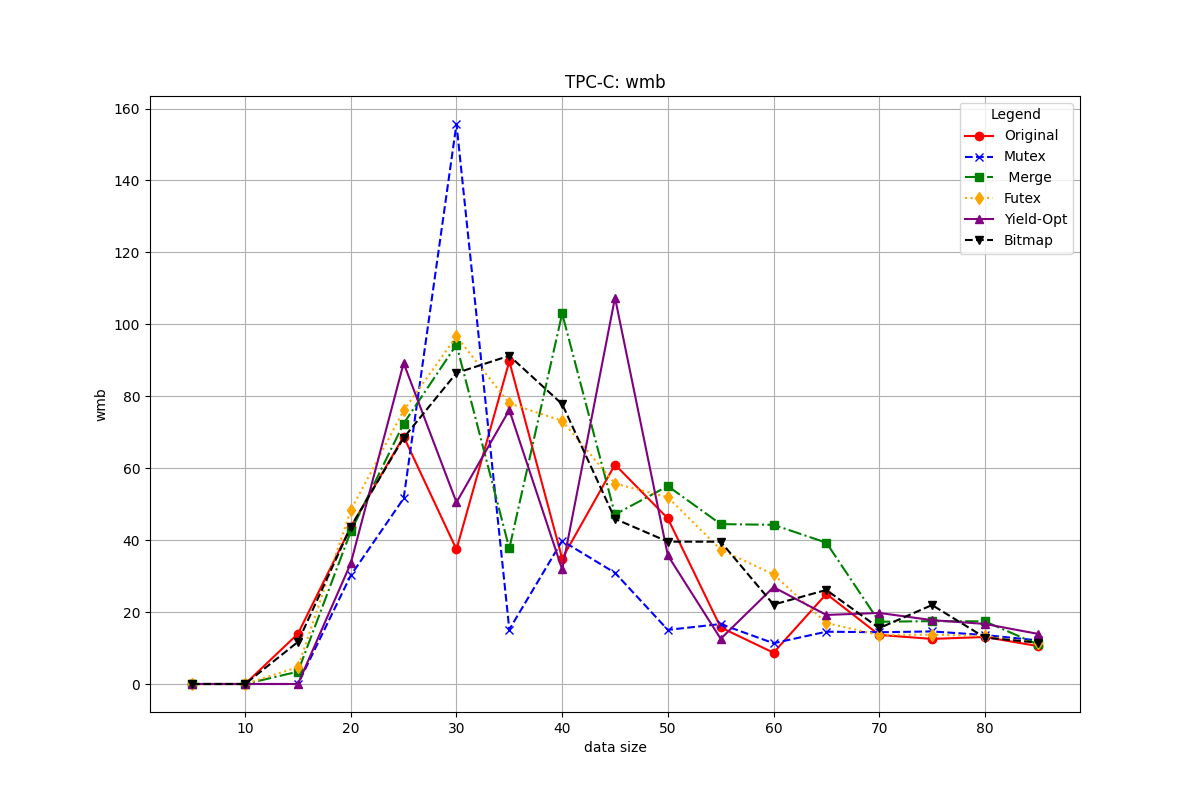
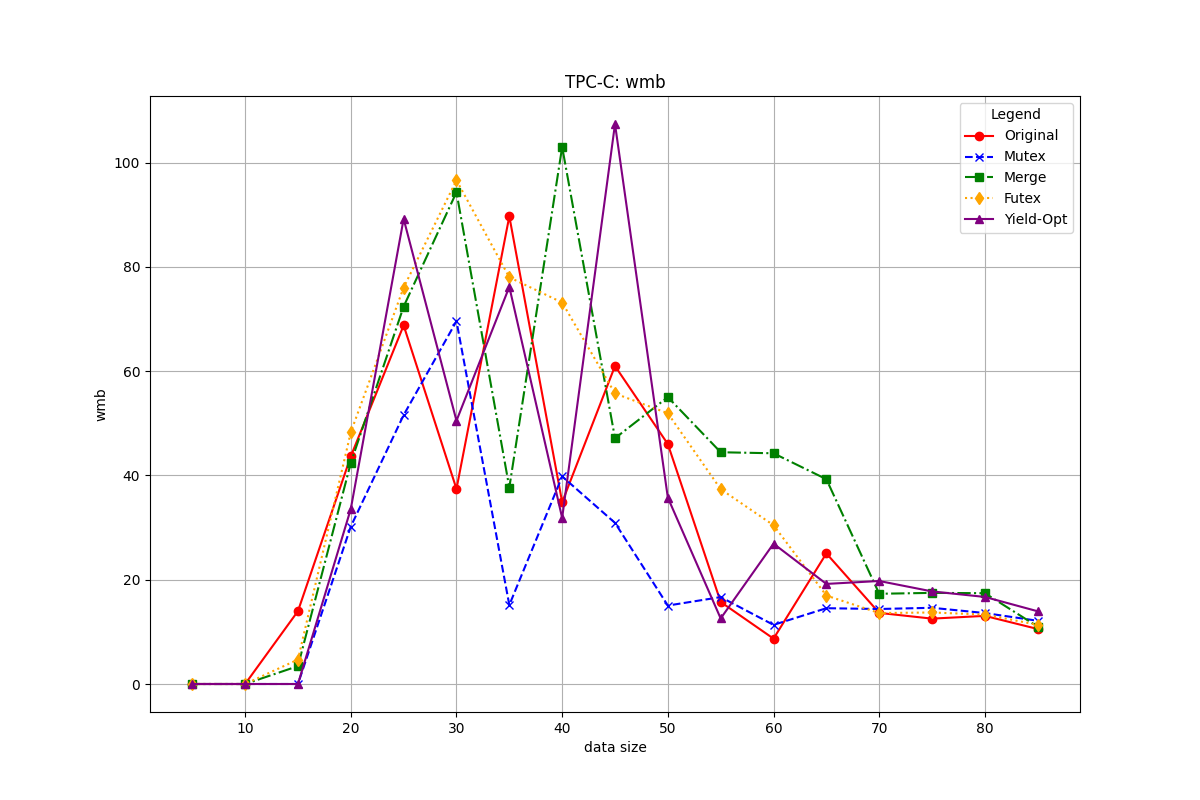
mutex data 修正

diff --git a/plot_cmp.py b/plot_cmp.py
@@ -53,10 +53,10 @@ def plot_multiple_data(files, title, labels):
 
 if __name__ == '__main__':
 
-    plot_multiple_data(['./data/result_rnd_o.txt', './data/result_rnd_m.txt', './data/result_rnd_mm.txt', './data/result_rnd_f.txt', './data/result_rnd_y.txt'], 
+    plot_multiple_data(['./data/result_rnd_o.txt', './data/result_rnd_m.txt', './data/result_rnd_me.txt', './data/result_rnd_f.txt', './data/result_rnd_y.txt'], 
                        'Random Lookup', 
-                       ['Original', 'Mutex', 'Mutex + Merge', 'Futex', 'Yield-Opt'])
+                       ['Original', 'Mutex', 'Merge', 'Futex', 'Yield-Opt'])
     
-    plot_multiple_data(['./data/result_o.txt', './data/result_m.txt', './data/result_mm.txt', './data/result_f.txt', './data/result_y.txt'], 
+    plot_multiple_data(['./data/result_o.txt', './data/result_m.txt', './data/result_me.txt', './data/result_f.txt', './data/result_y.txt'], 
                        'TPC-C', 
-                       ['Original', 'Mutex', 'Mutex + Merge', 'Futex', 'Yield-Opt'])
+                       ['Original', 'Mutex', 'Merge', 'Futex', 'Yield-Opt'])

diff --git a/plot_cmp_sub.py b/plot_cmp_sub.py
@@ -29,7 +29,7 @@ def plot_multiple_data(files, title, labels):
 
         plt.suptitle(f"{title}: {column}")
         plt.tight_layout(rect=[0, 0.03, 1, 0.95])
-        plt.savefig(f"./pic/{title}_{column}_comparison.png")  # 儲存圖片
+        plt.savefig(f"./pic_sub/{title}_{column}_comparison.png")  # 儲存圖片
         plt.close()
 
 if __name__ == '__main__':
